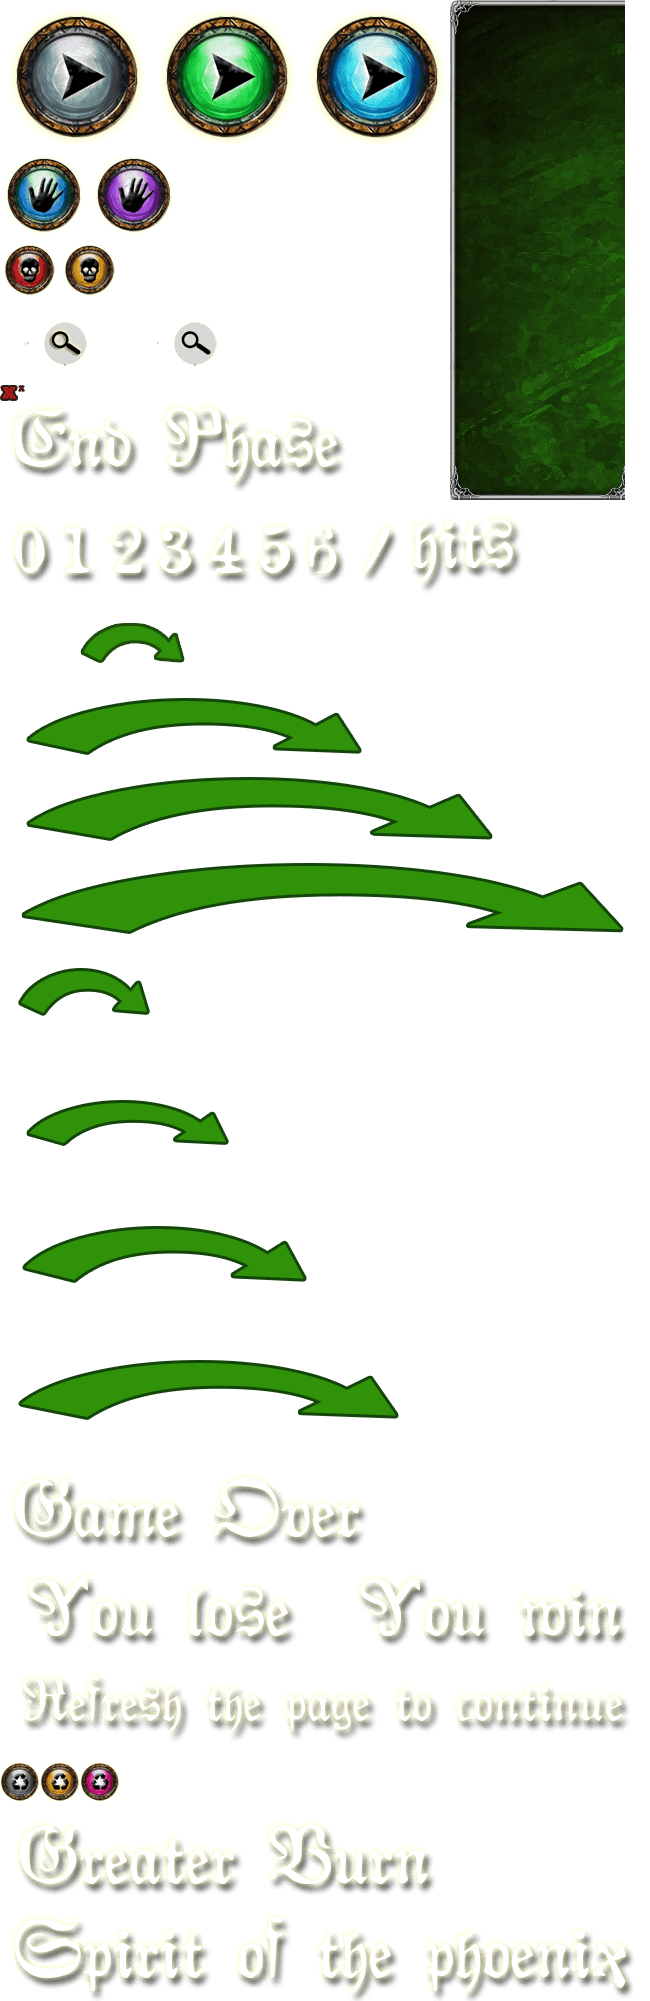
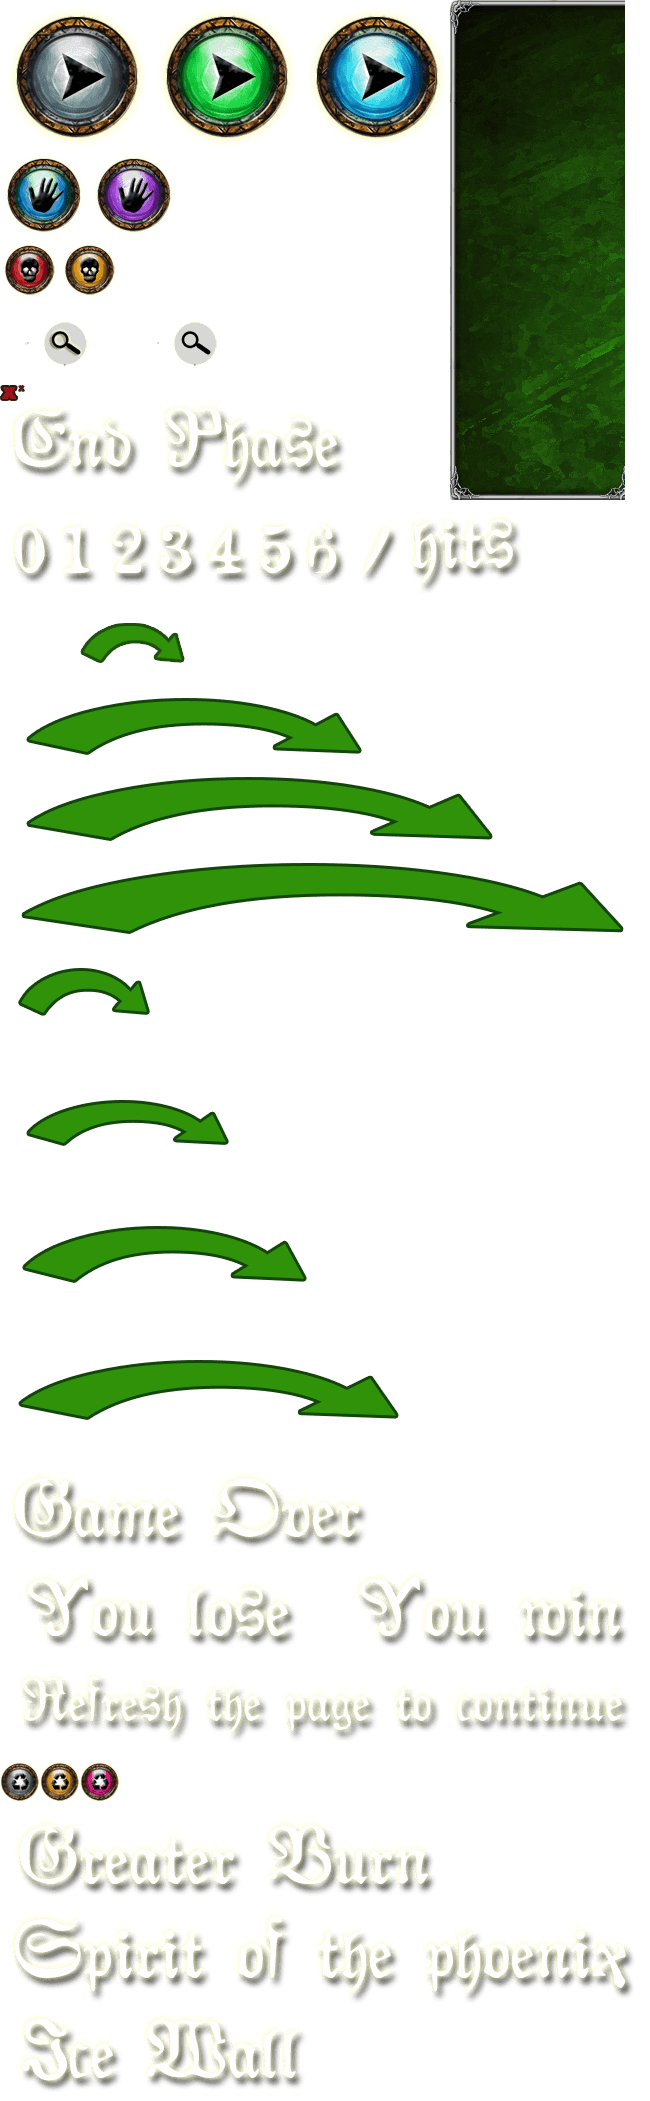
implement wall and ice wall event

diff --git a/scripts/game.js b/scripts/game.js
@@ -165,7 +165,8 @@ socket.on('game_over', function (data) {
     page_handler.animations.push(new page_handler.Animation(3));
 
 })
-// { room_name: room_name, card_id: selected_card_ref.id }
+
+//incoming add card to magic pile event
 socket.on('add_to_magic_pile', function (data) {
 
     var card_ref = null;
@@ -186,7 +187,6 @@ socket.on('add_to_magic_pile', function (data) {
 })
 
 //EVENTS HANDLING
-//incoming 'burn' event
 socket.on('PE_event_burn', function (data) {
 
     for (var i = 0; i < page_handler.board.matrix.length; i++) {
@@ -272,6 +272,48 @@ socket.on('PE_spirit_of_the_phoenix_event', function (data) {
                     }
                 }
             }
+        }
+    }
+})
+
+socket.on('PE_wall_summon_event', function (data) {
+
+    for (var i = 0; i < opponent.faction.deck.length; i++) {
+
+        if (opponent.faction.deck[i].name === 'Wall') {
+
+            page_handler.animations.push(new page_handler.Animation(7));
+            page_handler.board.addCard(opponent.faction.deck[i], data.j, data.i);
+            opponent.faction.deck.splice(i, 1);
+            return;
+        }
+    }
+})
+
+socket.on('TO_wall_summon_event', function (data) {
+
+    for (var i = 0; i < opponent.faction.deck.length; i++) {
+
+        if (opponent.faction.deck[i].name === 'Wall') {
+
+            page_handler.animations.push(new page_handler.Animation(7));
+            page_handler.board.addCard(opponent.faction.deck[i], data.j, data.i);
+            opponent.faction.deck.splice(i, 1);
+            return;
+        }
+    }
+})
+
+socket.on('TO_ice_wall_summon_event', function (data) {
+
+    for (var i = 0; i < opponent.faction.deck.length; i++) {
+
+        if (opponent.faction.deck[i].name === 'Ice Wall') {
+
+            page_handler.animations.push(new page_handler.Animation(8));
+            page_handler.board.addCard(opponent.faction.deck[i], data.j, data.i);
+            opponent.faction.deck.splice(i, 1);
+            return;
         }
     }
 })
@@ -1896,6 +1938,8 @@ var PlaygroundHandler = function () {
            4 - 'Burn'
            5 - 'Greater Burn'
            6 - 'Spirit of the Phoenix'
+           7 - 'Wall'
+           8 - 'Ice Wall'
         */
 
         var that = this;
@@ -1980,6 +2024,10 @@ var PlaygroundHandler = function () {
                     }
                 }
             }
+        }
+        if (that.type === 7 || that.type === 8) {
+
+            that.sheet_origin = 2001; // y start coordinates
         }
 
 
@@ -2082,8 +2130,14 @@ var PlaygroundHandler = function () {
                 ctx.fillRect(parent.board.s_x + (that.touched_card_y * parent.board.square_w), parent.board.s_y + (that.touched_card_x * parent.board.square_h), parent.board.square_w, parent.board.square_h);
                 ctx.drawImage(parent.image, 0, that.sheet_origin, 650, 100, 187, 334, 650, 100);
             }
+            else if (that.type === 7) {
+                ctx.drawImage(parent.image, 130, that.sheet_origin, 200, 100, 412, 334, 200, 100);
+            }
+            else if (that.type === 8) {
+                ctx.drawImage(parent.image, 0, that.sheet_origin, 330, 100, 347, 334, 330, 100);
+            }
 
-            ctx.restore(); 
+            ctx.restore();
 
         }
     }
@@ -2221,9 +2275,25 @@ var PlaygroundHandler = function () {
 
             } else if (card_ref.name === 'Wall') {
 
+                for (var i = 4; i < 8; i++) {
+                    for (var j = 0; j < parent.board.matrix[i].length; j++) {
+
+                        if (parent.board.matrix[i][j] === null) {
+
+                            if ((parseInt((((mouse_x - parent.board.s_x) / parent.board.square_w))) === j) &&
+                                (parseInt((((mouse_y - parent.board.s_y) / parent.board.square_h))) === i)) {
+
+                                mouse_state = 2;
+                                parent.board.addCard(card_ref, j, i);
+                                [j, i] = rotate180(j, i);
+                                socket.emit('PE_wall_summon_event', { room_name: room_name, card_id: card_ref.id, i: i, j: j });
+                                parent.hand.removeCard(card_ref);
+                                page_handler.animations.push(new page_handler.Animation(7));
+                            }
+                        }
+                    }
+                }
             }
-
-
         }
 
         that.handleEventPhaseRender = function () {
@@ -2291,6 +2361,29 @@ var PlaygroundHandler = function () {
                         }
                     }
                 }
+
+            } else if (card_name === 'Wall') {
+
+                //draw available tails
+                for (var i = 4; i < 8; i++) {
+                    for (var j = 0; j < parent.board.matrix[i].length; j++) {
+
+                        if (parent.board.matrix[i][j] === null) {
+                            ctx.fillStyle = "rgba(4, 124, 10, 0.4)";
+                            ctx.fillRect(parent.board.s_x + (j * parent.board.square_w), parent.board.s_y + (i * parent.board.square_h), parent.board.square_w, parent.board.square_h);
+
+                            if ((parseInt((((mouse_x - parent.board.s_x) / parent.board.square_w))) === j) &&
+                                (parseInt((((mouse_y - parent.board.s_y) / parent.board.square_h))) === i)) {
+
+                                //hover available tile (green)
+                                ctx.fillStyle = "rgba(4, 124, 10, 0.45)";
+                                ctx.fillRect(parent.board.s_x + (j * parent.board.square_w), parent.board.s_y + (i * parent.board.square_h), parent.board.square_w, parent.board.square_h);
+
+                            }
+                        }
+                    }
+                }
+
             }
         }
     }
@@ -2301,12 +2394,122 @@ var PlaygroundHandler = function () {
 
         that.handleEventPhaseLogic = function () {
 
+            //check if page handler is active
+            if (parent.draw_big_picture || parent.draw_big_picture_from_hand)
+                return;
+
+            var card_ref = null;
+
+            for (var i = 0; i < parent.hand.card_container.length; i++) {
+                if (parent.hand.card_container[i].selected)
+                    card_ref = parent.hand.card_container[i];
+            }
+
+            //if event card is not selected just stop
+            if (card_ref === null || mouse_state != 1)
+                return;
+
+            if (card_ref.name === 'Wall') {
+
+                for (var i = 4; i < 8; i++) {
+                    for (var j = 0; j < parent.board.matrix[i].length; j++) {
+
+                        if (parent.board.matrix[i][j] === null) {
+
+                            if ((parseInt((((mouse_x - parent.board.s_x) / parent.board.square_w))) === j) &&
+                                (parseInt((((mouse_y - parent.board.s_y) / parent.board.square_h))) === i)) {
+
+                                mouse_state = 2;
+                                parent.board.addCard(card_ref, j, i);
+                                [j, i] = rotate180(j, i);
+                                socket.emit('TO_wall_summon_event', { room_name: room_name, card_id: card_ref.id, i: i, j: j });
+                                parent.hand.removeCard(card_ref);
+                                page_handler.animations.push(new page_handler.Animation(7));
+                            }
+                        }
+                    }
+                }
+            } else if (card_ref.name === 'Ice Wall') {
+
+                for (var i = 4; i < 8; i++) {
+                    for (var j = 0; j < parent.board.matrix[i].length; j++) {
+
+                        if (parent.board.matrix[i][j] === null) {
+
+                            if ((parseInt((((mouse_x - parent.board.s_x) / parent.board.square_w))) === j) &&
+                                (parseInt((((mouse_y - parent.board.s_y) / parent.board.square_h))) === i)) {
+
+                                mouse_state = 2;
+                                parent.board.addCard(card_ref, j, i);
+                                [j, i] = rotate180(j, i);
+                                socket.emit('TO_ice_wall_summon_event', { room_name: room_name, card_id: card_ref.id, i: i, j: j });
+                                parent.hand.removeCard(card_ref);
+                                page_handler.animations.push(new page_handler.Animation(8));
+                            }
+                        }
+                    }
+                }
+            }
+
         }
 
         that.handleEventPhaseRender = function () {
 
-        }
+            var card_name = null;
 
+            for (var i = 0; i < parent.hand.card_container.length; i++) {
+                if (parent.hand.card_container[i].selected)
+                    card_name = parent.hand.card_container[i].name;
+            }
+
+            //if event card is not selected just stop
+            if (card_name === null)
+                return;
+
+            if (card_name === 'Wall') {
+
+                //draw available tails
+                for (var i = 4; i < 8; i++) {
+                    for (var j = 0; j < parent.board.matrix[i].length; j++) {
+
+                        if (parent.board.matrix[i][j] === null) {
+                            ctx.fillStyle = "rgba(4, 124, 10, 0.4)";
+                            ctx.fillRect(parent.board.s_x + (j * parent.board.square_w), parent.board.s_y + (i * parent.board.square_h), parent.board.square_w, parent.board.square_h);
+
+                            if ((parseInt((((mouse_x - parent.board.s_x) / parent.board.square_w))) === j) &&
+                                (parseInt((((mouse_y - parent.board.s_y) / parent.board.square_h))) === i)) {
+
+                                //hover available tile (green)
+                                ctx.fillStyle = "rgba(4, 124, 10, 0.45)";
+                                ctx.fillRect(parent.board.s_x + (j * parent.board.square_w), parent.board.s_y + (i * parent.board.square_h), parent.board.square_w, parent.board.square_h);
+
+                            }
+                        }
+                    }
+                }
+            } else if (card_name === 'Ice Wall') {
+
+                //draw available tails
+                for (var i = 4; i < 8; i++) {
+                    for (var j = 0; j < parent.board.matrix[i].length; j++) {
+
+                        if (parent.board.matrix[i][j] === null) {
+                            ctx.fillStyle = "rgba(4, 124, 10, 0.4)";
+                            ctx.fillRect(parent.board.s_x + (j * parent.board.square_w), parent.board.s_y + (i * parent.board.square_h), parent.board.square_w, parent.board.square_h);
+
+                            if ((parseInt((((mouse_x - parent.board.s_x) / parent.board.square_w))) === j) &&
+                                (parseInt((((mouse_y - parent.board.s_y) / parent.board.square_h))) === i)) {
+
+                                //hover available tile (green)
+                                ctx.fillStyle = "rgba(4, 124, 10, 0.45)";
+                                ctx.fillRect(parent.board.s_x + (j * parent.board.square_w), parent.board.s_y + (i * parent.board.square_h), parent.board.square_w, parent.board.square_h);
+
+                            }
+                        }
+                    }
+                }
+            }
+        }
     }
 
     //board initialization
@@ -3072,7 +3275,7 @@ var gameLoop = function () {
                 your_turn = true;
                 end_turn_event = false;
                 page_handler.restoreEventsData();
-                
+
             }
 
             page_handler.draw();

diff --git a/scripts/factions.js b/scripts/factions.js
@@ -20,7 +20,7 @@ var PheonixElves = function (player_name) {
             
             new Card('Archer', 'pe03', 0, 0, that.player_name, 4, 1, 1, 1, "common"),
             new Card('Archer', 'pe04', 0, 0, that.player_name, 4, 1, 1, 1, "common"),
-            new Card('Archer', 'pe05', 0, 0, that.player_name, 4, 1, 1, 1, "common"),
+            new Card('Archer', 'pe05', 0, 0, that.player_name, 4, 1, 1, 1, "common"),/*
             new Card('Archer', 'pe06', 0, 0, that.player_name, 4, 1, 1, 1, "common"),
             new Card('Guardian', 'pe08', 1, 0, that.player_name, 1, 1, 2, 2, "common"),
             new Card('Guardian', 'pe09', 1, 0, that.player_name, 1, 1, 2, 2, "common"),
@@ -43,7 +43,7 @@ var PheonixElves = function (player_name) {
             new Card('Magic Drain', 'pe27', 3, 1, that.player_name, 0, 0, 0, 0, "event"),
             new Card('Spirit of the Phoenix', 'pe28', 4, 1, that.player_name, 0, 0, 0, 0, "event"),
             new Card('Spirit of the Phoenix', 'pe29', 4, 1, that.player_name, 0, 0, 0, 0, "event"),
-            new Card('Spirit of the Phoenix', 'pe30', 4, 1, that.player_name, 0, 0, 0, 0, "event"),
+            new Card('Spirit of the Phoenix', 'pe30', 4, 1, that.player_name, 0, 0, 0, 0, "event"),*/
             new Card('Wall', 'pe33', 6, 0, that.player_name, 0, 0, 9, 0, "event"),
             new Card('Wall', 'pe34', 6, 0, that.player_name, 0, 0, 9, 0, "event")
             
@@ -86,6 +86,7 @@ var TundraOrcs = function (player_name) {
                [0,0][1,0][2,0]
                [0,1][1,1][2,1]
             */
+            
             new Card('Fighter', 'to03', 3, 0, that.player_name, 1, 1, 1, 1, "common"),
             new Card('Fighter', 'to04', 3, 0, that.player_name, 1, 1, 1, 1, "common"),
             new Card('Fighter', 'to05', 3, 0, that.player_name, 1, 1, 1, 1, "common"),

diff --git a/server.js b/server.js
@@ -347,7 +347,26 @@ io.sockets.on('connection', function (socket) {
         socket.broadcast.to(data.room_name).emit('PE_spirit_of_the_phoenix_event', { card_id: data.card_id });
     });
 
+    socket.on('PE_wall_summon_event', function (data) {
 
+        //sending to all clients in 'game' room(channel) except sender
+        socket.broadcast.to(data.room_name).emit('PE_wall_summon_event', { card_id: data.card_id, i: data.i, j: data.j });
+    });
+
+    //TO
+    socket.on('TO_wall_summon_event', function (data) {
+
+        //sending to all clients in 'game' room(channel) except sender
+        socket.broadcast.to(data.room_name).emit('TO_wall_summon_event', { card_id: data.card_id, i: data.i, j: data.j });
+    });
+
+    socket.on('TO_ice_wall_summon_event', function (data) {
+
+        //sending to all clients in 'game' room(channel) except sender
+        socket.broadcast.to(data.room_name).emit('TO_ice_wall_summon_event', { card_id: data.card_id, i: data.i, j: data.j });
+    });
+
+    
     
 
 });
